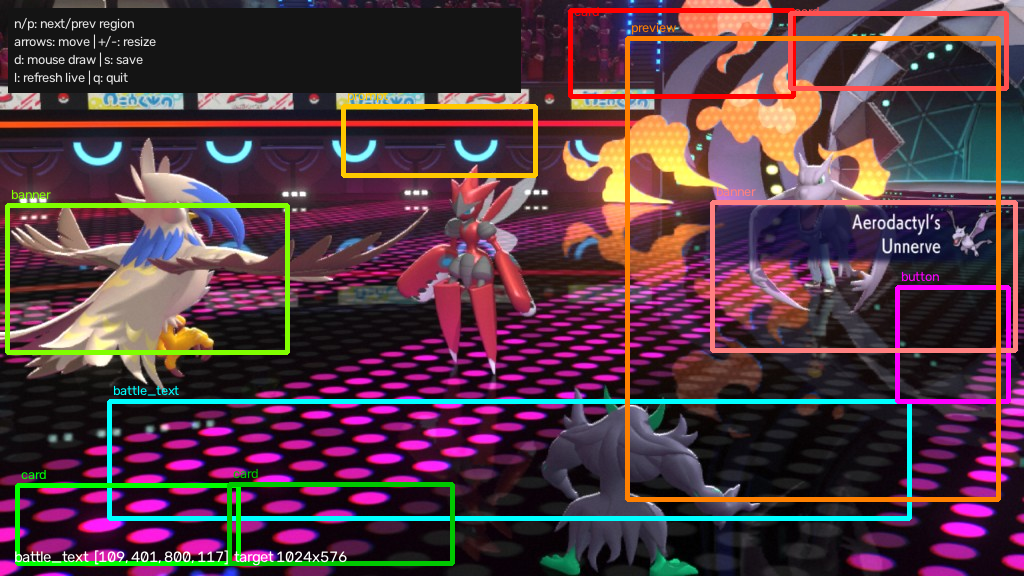
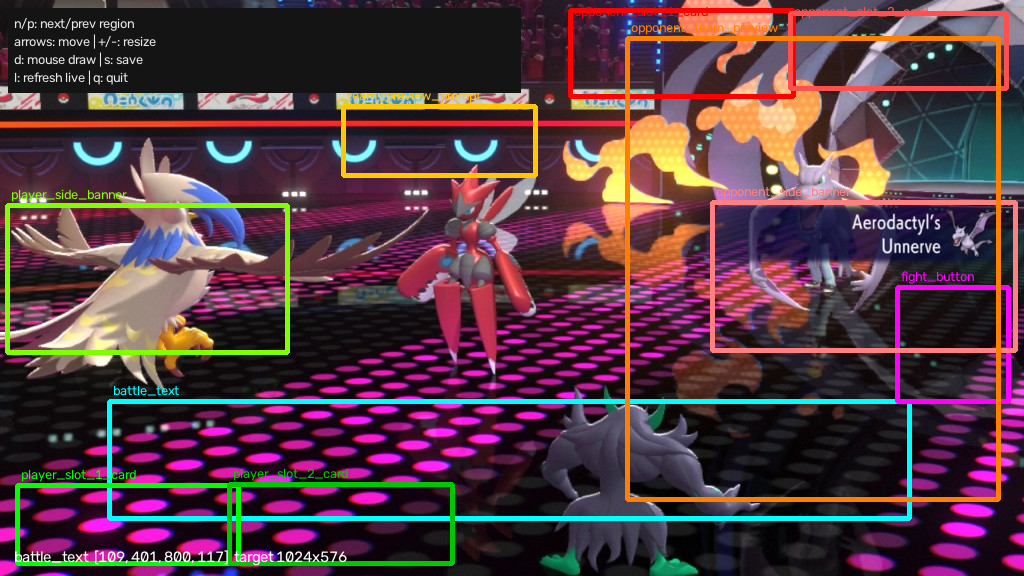
small CV region render tweak

diff --git a/backend/app/cv/calibrate.py b/backend/app/cv/calibrate.py
@@ -106,7 +106,7 @@ def _draw_overlay(
         thickness = 3
         cv2.rectangle(canvas, (x, y), (x + w, y + h), color, thickness)
         if show_labels:
-            label = name if name == selected else name.split("_")[-1]
+            label = name
             cv2.putText(
                 canvas,
                 label,
